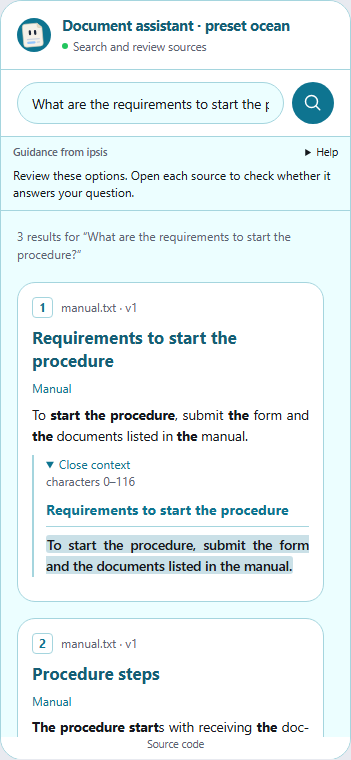
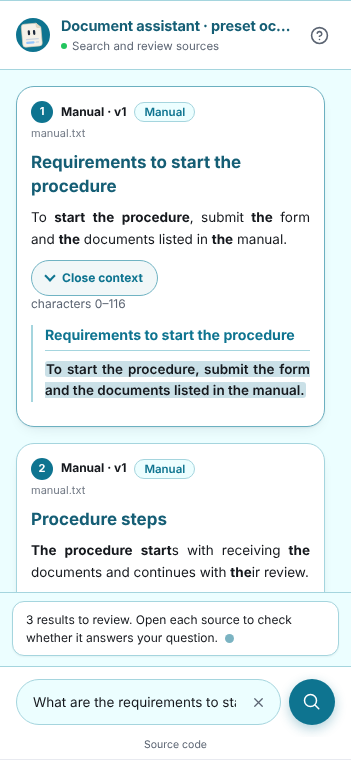
docs(widget): guía del widget en español al día y capturas regeneradas (C4)
docs/es/guia/web.md gana las secciones «Probar el widget y configurar el
proyecto» y «Orientación separada de los resultados», la fila completa de
GET /config, la orientación de v2 en «Textos» y la mención del icono «?»,
y queda con las mismas 14 secciones que la guía en inglés. Los README
aclaran que el menú Ayuda se abre con el «?». Se regeneran las 8 capturas
con el diseño actual (icono «?», buscador abajo, mensaje del asistente).

Corrige el inventario: el menú Ayuda no se eliminó y avatar.placement ya
estaba documentado en las guías de personalidad. Registra I16.

Claude-Session: https://claude.ai/code/session_01DDksSxL6S6eqJZ39AY9umk

diff --git a/tests/test_documentacion.py b/tests/test_documentacion.py
@@ -209,7 +209,7 @@ PARES_DE_GUIAS = [("configuration", "configuracion"), ("deployment", "despliegue
                   ("installation", "instalacion"), ("integrations", "integraciones"),
                   ("inventories", "inventarios"), ("personality", "personalidad"), ("usage", "uso"), ("web", "web")]
 DIFERENCIAS_PERMITIDAS: dict[str, tuple[int, str]] = {}
-GUIAS_POR_ACTUALIZAR = {"web": "C4: I9", "deployment": "C5: I10"}
+GUIAS_POR_ACTUALIZAR = {"deployment": "C5: I10"}
 
 
 def _secciones(ruta: Path) -> int:

diff --git a/docs/es/guia/web.md b/docs/es/guia/web.md
@@ -13,6 +13,65 @@ configuración y cómo conservar el widget al navegar entre rutas.
 
 ![Widget v2 con fuentes numeradas y contexto literal](../../assets/widget-sources-es.png)
 
+## Probar el widget y configurar el proyecto
+
+Desde la carpeta de un proyecto, ejecuta `ipsis serve`. Abre
+`/widget/demo.html` con el tema que ya tiene el proyecto y habilita
+`/admin/panel`; la página de prueba enlaza al panel y `/` redirige a la página
+de prueba. Pega en el panel el token de administración que se muestra en la
+terminal. Si ya existe `IPSIS_ADMIN_TOKEN`, se reutiliza; si no, se crea un
+token temporal para esta ejecución, sin guardarlo. Se conserva el modo de
+producción, incluido HTTPS para el acceso remoto de administración.
+
+Usa `ipsis serve --no-open` para no abrir el navegador. `--no-demo` desactiva
+la página de prueba y evita que se abra; `--no-admin` desactiva el panel aunque
+haya un token configurado. La API y los archivos del widget siguen
+disponibles. Ejecuta `ipsis help serve` para ver todas las opciones.
+
+## Orientación separada de los resultados
+
+Con el motor v2, una sección de orientación se ubica sobre las fuentes
+ordenadas. Usa un catálogo fijo de 118 mensajes para cada uno de español,
+inglés y portugués, elegido según el idioma de los documentos del proyecto. Los
+demás idiomas usan la orientación en inglés como respaldo. Las trece categorías
+son `welcome`, `greeting`, `thanks`, `farewell`, `capability`, `tips`,
+`searching`, `results`, `continuation`, `no_results`, `about`, `limits` y
+`examples`. Los catálogos YAML están en `ipsis/recursos/voz/` y son
+independientes de los tonos y de las plantillas de fuentes existentes. Es texto
+de interfaz: nunca evidencia documental ni respuestas generadas.
+
+Las plantillas `results` y `continuation` pueden usar `{count}` (el número con
+su sustantivo, ya en singular o plural del idioma: «3 resultados», «1
+resultado»), `{n}` (el número solo) y `{query}` (lo que se buscó). Una
+plantilla que no usa ninguno recibe el conteo al inicio («3 resultados. …»), de
+modo que el conteo siempre llega a quien lee sin ocupar una línea propia (el
+encabezado «N resultados para …» se conserva solo para lectores de pantalla). El
+menú de ayuda es un icono «?» en el encabezado del asistente. Mientras el
+asistente no está hablando, o aún no empezó, un punto aparece y se desvanece
+después de su mensaje para indicar que espera.
+
+**Cómo buscar**, **Qué puedo hacer**, **Sobre el asistente**, **Alcance** y
+**Ejemplos** rotan entre sus mensajes de forma local, sin enviar una consulta
+de búsqueda. Los saludos, agradecimientos y despedidas escritos también van a
+esta sección, y conservan las fuentes desplegadas y el botón de continuación.
+Solo las expresiones de cortesía completas evitan la recuperación documental;
+una consulta mixta como «hola, ¿cuál es el stock del producto A?» sigue
+consultando el corpus.
+
+La orientación se revela carácter por carácter, sin retrasar las peticiones de
+red ni mostrar las fuentes carácter por carácter. **Mostrar completo** termina
+la animación de inmediato. Un mensaje nuevo cancela la animación anterior. Las
+preferencias de movimiento reducido, incluso si cambian mientras se escribe,
+muestran el texto completo; `ipsis widget style set animations.enabled=false`
+también desactiva la escritura. Los lectores de pantalla reciben el mensaje
+completo una sola vez, en lugar de actualizaciones por carácter. Los errores de
+búsqueda aparecen en la orientación y dejan disponibles los resultados
+existentes.
+
+`GET /config` agrega `assistant_messages` (categoría → lista de textos fijos),
+`suggested_questions`, `animations_enabled` y las etiquetas de orientación
+localizadas en `interface`. El motor v1 conserva su flujo de chat actual.
+
 ## Insertarlo
 
 La forma más simple: pide el código ya armado y pégalo antes de `</body>`.
@@ -109,7 +168,7 @@ El widget usa tres endpoints públicos; también puedes llamarlos tú:
 | Endpoint | Qué devuelve |
 |---|---|
 | `POST /ask` con `{"question": "...", "session_id": "..."}` | `status` (`ok`, `related`, `no_answer`, `conversational`, `degraded`, `saturated`), `answer`, `answer_blocks` (`answer` por párrafo: `type` es `lead`, `passage` o `message`, con `text`, `connector`, `citation` y `chunk_id`; el texto de `passage` es literal del documento), `fragments` (`doc_title`, `section`, `offset_start`, `offset_end`, `text`, `score`…), `plan` (`clarification` cuando la pregunta no tiene tema: el asistente lo pide), `confidence_level` (`high`: respuesta directa leída por el lector QA, 96,6 % correcta en los bancos medidos; `medium`: respuesta directa sin lector, 85 %; `low`: pasaje relacionado; ausente si no hay respuesta), `confidence`, `latency_ms`, `exact_answer` cuando el lector marcó un tramo, `alternatives` (solo en `no_answer` con la postura proactiva: pasajes literales parecidos, con los campos de `fragments`; no responden la pregunta) y `conversational_category` |
-| `GET /config` | Lo que necesita el widget: `assistant_name`, `greeting`, `preset`, `density`, `citations`, los textos de `interface`, la `microcopy` del tono, `placement` y `avatar` |
+| `GET /config` | Lo que necesita el widget: `assistant_name`, `greeting`, `response_mode`, `preset`, `density`, `citations`, los textos de `interface`, la `microcopy` del tono, `assistant_messages`, `animations_enabled`, `placement` y `avatar` |
 | `GET /health`, `GET /ready` | Vida y preparación (con el mismo diagnóstico que `ipsis doctor` en `project`) |
 
 Con claves de widget configuradas, `POST /ask` exige el encabezado
@@ -160,6 +219,8 @@ comprobarla:
 - **Del tono activo** (ver [personalidad.md](personalidad.md)): la
   bienvenida, «buscando…», la invitación a las citas y los mensajes de error
   vienen de `/config` en 7 variantes, y el widget rota entre ellas.
+- **Orientación de v2:** su catálogo fijo y separado tiene 118 mensajes por
+  idioma admitido, con ejemplos e información sobre el asistente y su alcance.
 - **Textos de la interfaz** (etiquetas de botones, placeholder…): vienen del
   paquete de idioma del proyecto.
 - **Accesibilidad:** «buscando…» y los errores se anuncian a los lectores
@@ -215,7 +276,8 @@ variantes de mensajes son un catálogo distinto de las preguntas reconocidas.
 
 La orientación ocupa dos líneas por defecto. **Mostrar completo** permite
 leerla en un área desplazable; **Contraer** devuelve el espacio a las fuentes.
-El menú **Ayuda** muestra las acciones sobre la lista, sin cambiar su altura.
+El menú **Ayuda** (el icono «?» del encabezado) muestra las acciones sobre la
+lista, sin cambiar su altura.
 La barra de carga y las transiciones de las tarjetas hacen visibles las
 consultas nuevas; respetan `animations.enabled` y el movimiento reducido.
 

diff --git a/docs/plan/coherencia-avance.md b/docs/plan/coherencia-avance.md
@@ -9,7 +9,7 @@ Estados: ✅ hecho · 🔶 en curso · ⬜ pendiente · ⛔ bloqueado · ⚠ esp
 | C1 | ✅ | 2026-10-16 | (ver git log) | 7 pruebas nuevas en `tests/test_documentacion.py` (28 casos con las existentes); 12 casos `xfail(strict=True)` que la tarea indicada debe quitar. Detalle abajo. |
 | C2 | ✅ | 2026-10-16 | (ver git log) | Tablas de perfiles, tamaños y latencia medidos, descripción del perfil, `heavy` fuera de `ranking_pasajes.py`, nota en ADR 0003. Decisiones del usuario: presupuesto = opción (a) (solo documentar); sin ADR 0010. Ver «C2» abajo. |
 | C3 | ✅ | 2026-10-16 | (ver git log) | Ejemplos en `config_version: 8`; tabla de versiones completa (6, 7, 8); preparación estructural descrita como predeterminada; se quitaron los 5 `xfail` de C3. Ver «C3» abajo. |
-| C4 | ⬜ | | | |
+| C4 | ✅ | 2026-10-16 | (ver git log) | Guía del widget en español con las mismas 14 secciones que la inglesa; 8 capturas regeneradas; README aclara que el menú se abre con el «?». Ver «C4» abajo. |
 | C5 | ⬜ | | | |
 | C6 | ⬜ | | | ⚠ número de versión |
 | C7 | ⬜ | | | ⚠ cierre de F5.1 del plan V4 |
@@ -134,3 +134,32 @@ descartada).
 - Pruebas: quitados los `xfail` de `test_ejemplos_usan_la_config_version_vigente` (3 casos) y de
   `test_la_guia_de_configuracion_describe_la_version_vigente` (2). Quedan 3 `xfail`: web (C4), deployment y
   README.es (C5).
+
+## C4: widget en español
+
+- `docs/es/guia/web.md` pasa de 12 a 14 secciones `##`, igual que `docs/guide/web.md`: se tradujeron «Probar el widget y
+  configurar el proyecto» y «Orientación separada de los resultados» (con las etiquetas reales del pack de voz en
+  español: «Cómo buscar», «Qué puedo hacer», «Sobre el asistente», «Alcance», «Mostrar completo», «Contraer»; el conteo
+  se escribe «3 resultados» / «1 resultado», como en `ipsis/recursos/idiomas/es.yaml`). Además: la fila de
+  `GET /config` con `response_mode`, `assistant_messages` y `animations_enabled`, el punto de «Orientación de v2» en
+  «Textos» y la mención del icono «?» en el párrafo del menú.
+- **Corrección a I8.** El menú «Ayuda» **no se eliminó**: el icono «?» del encabezado lo abre (`widget.js:1362`). Los
+  README conservan «menú Ayuda» y ahora dicen cómo se abre.
+- **Corrección a I9.** `avatar.placement` sí está documentado, en inglés y en español, en
+  `docs/guide/personality.md:35` y `docs/es/guia/personalidad.md:34`. Lo que falta, **en los dos idiomas**, está solo en el
+  CHANGELOG: ver I16.
+- **Capturas.** Las 8 `docs/assets/widget-{sources,sources-dark,mobile,faq}-{en,es}.png` eran del 2026-10-13, anteriores
+  al icono «?», al mensaje del asistente sobre el buscador y al buscador abajo. Se regeneraron con
+  `herramientas/capturas_widget.py` (sin modificarlo) usando el Chromium preinstalado en `/opt/pw-browsers/chromium`,
+  porque la versión de Playwright del proyecto espera otro build. No se regeneraron `widget-mobile.png`, `widget-answer.png` y `widget-answer-dark.png` (del 2026-10-10): ese
+  script no las produce y **ningún documento las referencia** (comprobado con `grep`); quedaron huérfanas y se dejan para
+  que el usuario decida si borrarlas.
+- Prueba: quitado el `xfail` de `web` en `test_guias_en_y_es_tienen_las_mismas_secciones`; queda el de `deployment` (C5).
+
+### Hallazgo nuevo
+
+- **I16.** `docs/guide/web.md` y `docs/es/guia/web.md` no describen el diseño de búsqueda del [Unreleased]: buscador abajo
+  como un chat con los resultados desplazándose encima, mensaje del asistente sobre el buscador con el avatar a su derecha
+  (`avatar.placement: message`, ya documentado en las guías de personalidad), esqueletos de carga y la página de demostración
+  a pantalla completa en teléfonos. Es contenido nuevo para los dos idiomas, no una traducción, así que no se agregó en C4.
+  ⚠ Recomendación: una sección corta «Diseño de búsqueda» en ambas guías, tomada del CHANGELOG, en C5 o aparte.

diff --git a/README.es.md b/README.es.md
@@ -203,7 +203,7 @@ conserva los textos personalizados y el CSS extra.
 Las seis preguntas sugeridas rellenan el campo sin enviarlo. **Preguntas
 frecuentes** permite explorar el catálogo por tema: uso, fuentes, inventarios,
 alcance, privacidad, apariencia, documentos, servicio y mantenimiento.
-El menú **Ayuda** reúne los mensajes de orientación. Puedes expandirlos cuando
+El menú **Ayuda**, que se abre con el icono «?» del encabezado, reúne los mensajes de orientación. Puedes expandirlos cuando
 necesites leerlos completos; una búsqueda nueva los vuelve a compactar.
 
 | Ruta | Uso |

diff --git a/README.md b/README.md
@@ -202,7 +202,7 @@ content text and extra CSS.
 Six suggested questions fill the input without submitting it. **Frequently
 asked questions** lets users explore topics covering search, sources,
 inventories, scope, privacy, appearance, documents, service and maintenance.
-The **Help** menu groups guidance messages. Expand them when you need the full
+The **Help** menu, opened with the "?" icon in the header, groups guidance messages. Expand them when you need the full
 text; a new query returns them to their compact view.
 
 | Route | Purpose |
